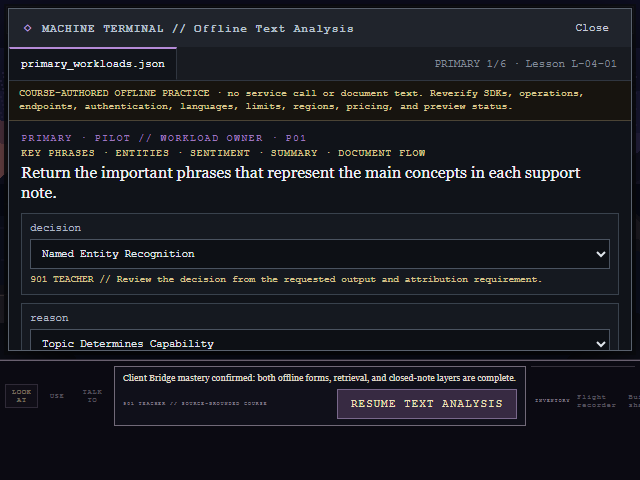
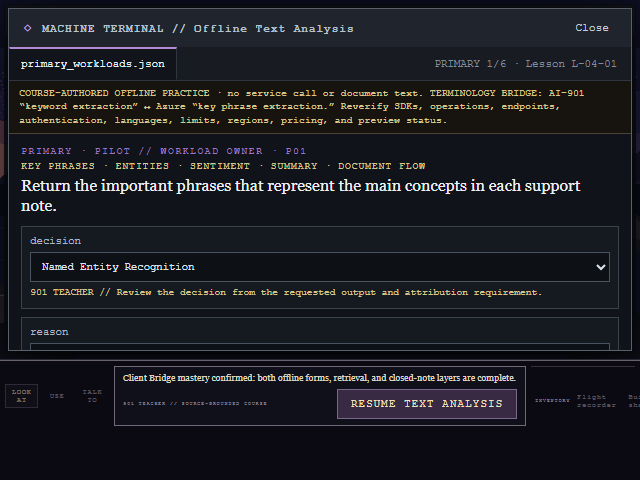
Round 13 step 5 Exercise Agent checkpoint

Changed region(s): [[0.0312, 0.1875, 0.9688, 0.75]]

diff --git a/horizon-archive-game/src/App.jsx b/horizon-archive-game/src/App.jsx
@@ -133,13 +133,14 @@ import {
 import {
   evaluateTextAnalysisExplanation,
   evaluateTextAnalysisScenario,
+  getTextAnalysisExplanationFeedback,
+  getTextAnalysisFeedback,
   getTextAnalysisOptions,
   sanitizeTextAnalysisEvidence,
   textAnalysisDimensions,
   textAnalysisExercise,
   textAnalysisExplanationDimensions,
   textAnalysisPrimaryScenarios,
-  textAnalysisRemediation,
   textAnalysisTransferScenarios,
   updateTextAnalysisEvidence,
 } from "./textAnalysisExercise.js";
@@ -375,6 +376,7 @@ export function App() {
   const focusContinueAfterStructuredRef = useRef(false);
   const focusContinueAfterControlRef = useRef(false);
   const focusContinueAfterClientRef = useRef(false);
+  const focusContinueAfterTextRef = useRef(false);
 
   function setDialogue(text, owner = "pilot") {
     setDialogueText(text);
@@ -456,6 +458,12 @@ export function App() {
     continueButtonRef.current?.focus({ preventScroll: true });
   }, [terminalOpen, pendingAdvance, clientBridgeEvidence?.masteryStatus]);
 
+  useLayoutEffect(() => {
+    if (!focusContinueAfterTextRef.current || terminalOpen || !pendingAdvance || textAnalysisEvidence?.masteryStatus !== "mastered") return;
+    focusContinueAfterTextRef.current = false;
+    continueButtonRef.current?.focus({ preventScroll: true });
+  }, [terminalOpen, pendingAdvance, textAnalysisEvidence?.masteryStatus]);
+
   function beginNewGame() {
     localStorage.removeItem(SAVE_KEY);
     setSceneIndex(0);
@@ -523,6 +531,7 @@ export function App() {
     if (saved.clientBridgeEvidence?.masteryStatus === "mastered") focusContinueAfterClientRef.current = true;
     setClientBridgeEvidence(saved.clientBridgeEvidence);
     setClientBridgeSession(null);
+    if (saved.textAnalysisEvidence?.masteryStatus === "mastered") focusContinueAfterTextRef.current = true;
     setTextAnalysisEvidence(saved.textAnalysisEvidence);
     setTextAnalysisSession(null);
     setResponsibleAIEvidence(saved.responsibleAIEvidence);
@@ -1169,7 +1178,7 @@ export function App() {
   function advanceTextAnalysis() { if (!textAnalysisSession.result?.passed) return; const scenarios = textAnalysisSession.form === "transfer" ? textAnalysisTransferScenarios : textAnalysisPrimaryScenarios; if (textAnalysisSession.index === scenarios.length - 1) { if (textAnalysisSession.form === "transfer") { setTextAnalysisEvidence((previous) => updateTextAnalysisEvidence(previous, { form: "explanation", masteryStatus: "transfer_complete", clearMisconceptionTags: true })); setTextAnalysisSession({ ...textAnalysisSession, form: "explanation", phase: "explanation", result: null, hintLevel: 0 }); } else setTextAnalysisSession({ ...textAnalysisSession, complete: true }); return; } setTextAnalysisSession({ ...textAnalysisSession, index: textAnalysisSession.index + 1, response: { decision: "", reason: "" }, result: null, hintLevel: 0 }); }
   function acknowledgeTextAnalysisPrimary() { if (!textAnalysisSession?.complete || !textAnalysisEvidence?.confidence) return; setTextAnalysisEvidence((previous) => updateTextAnalysisEvidence(previous, { form: "transfer", masteryStatus: "primary_complete", clearMisconceptionTags: true })); setTextAnalysisSession(null); setTerminalOpen(false); setRuinsTerminalKind(null); setDialogue("Text Analysis primary form complete at 12 of 12. Fresh transfer and closed-note workload choice remain.", "teacher"); }
   function checkTextAnalysisExplanation(event) { event.preventDefault(); const result = evaluateTextAnalysisExplanation(textAnalysisSession.explanationResponse); setTextAnalysisSession({ ...textAnalysisSession, explanationResult: result }); setTextAnalysisEvidence((previous) => updateTextAnalysisEvidence(previous, { form: "explanation", scenarioId: "explanation", correctness: result.correctness, incrementAttempt: true, masteryStatus: "transfer_complete" })); }
-  function acknowledgeTextAnalysisMastery() { if (!textAnalysisSession?.explanationResult?.passed || !textAnalysisSession.ownershipConfirmed || !textAnalysisEvidence?.confidence) return; focusContinueAfterClientRef.current = true; setTextAnalysisEvidence((previous) => updateTextAnalysisEvidence(previous, { form: "explanation", masteryStatus: "mastered", clearMisconceptionTags: true })); setTextAnalysisSession(null); setTerminalOpen(false); setRuinsTerminalKind(null); setDialogue("Text Analysis mastery confirmed: both 12-of-12 forms and closed-note workload explanation are complete.", "teacher"); }
+  function acknowledgeTextAnalysisMastery() { if (!textAnalysisSession?.explanationResult?.passed || !textAnalysisSession.ownershipConfirmed || !textAnalysisEvidence?.confidence) return; focusContinueAfterTextRef.current = true; setTextAnalysisEvidence((previous) => updateTextAnalysisEvidence(previous, { form: "explanation", masteryStatus: "mastered", clearMisconceptionTags: true })); setTextAnalysisSession(null); setTerminalOpen(false); setRuinsTerminalKind(null); setDialogue("Text Analysis mastery confirmed: both 12-of-12 forms and closed-note workload explanation are complete.", "teacher"); }
 
   function validateEvidenceOutput(event) {
     event.preventDefault();
@@ -2007,12 +2016,12 @@ export function App() {
         )}
         {terminalOpen && scene.id === "ruins" && ruinsTerminalKind === "text-analysis" && textAnalysisSession && (
           <TerminalShell exerciseId={textAnalysisExercise.exercise_id} title="Offline Text Analysis" filename={textAnalysisSession.phase === "explanation" ? "closed_note.md" : `${textAnalysisSession.form}_workloads.json`} lessonId={textAnalysisExercise.lesson_id} statusText={textAnalysisSession.phase === "explanation" ? "CLOSED-NOTE GATE" : `${textAnalysisSession.form.toUpperCase()} ${textAnalysisSession.index + 1}/6`} closeLabel="Exit Text Analysis" restoreFocusTo={terminalTriggerRef.current} onClose={exitTextAnalysis}>
-            <section className="model-choice-workspace text-analysis-workspace"><p className="model-choice-boundary">COURSE-AUTHORED OFFLINE PRACTICE · no service call or document text. Reverify SDKs, operations, endpoints, authentication, languages, limits, regions, pricing, and preview status.</p>
+            <section className="model-choice-workspace text-analysis-workspace"><p id="text-analysis-terminology-bridge" className="model-choice-boundary" role="note">COURSE-AUTHORED OFFLINE PRACTICE · no service call or document text. TERMINOLOGY BRIDGE: AI-901 “keyword extraction” ↔ Azure “key phrase extraction.” Reverify SDKs, operations, endpoints, authentication, languages, limits, regions, pricing, and preview status.</p>
               {textAnalysisSession.phase === "explanation" ? (
-                <form className="model-choice-form" onSubmit={checkTextAnalysisExplanation}><header><p className="pane-label">PILOT // CLOSED-NOTE WORKLOAD OWNER</p><h2>Explain key phrase extraction and safe result correlation</h2><p>Bridge AI-901 “keyword extraction” wording to the service capability, then preserve document IDs and mixed success/error handling. Your words remain session-only.</p></header><div className="model-choice-fields text-analysis-explanation">{textAnalysisExplanationDimensions.map((dimension) => { const fieldResult = textAnalysisSession.explanationResult?.correctness[dimension]; const id = `text-explanation-${dimension}-feedback`; return <label key={dimension}><span>{dimension.replaceAll("_", " ")}</span><input aria-label={`Closed-note text analysis ${dimension}`} aria-invalid={textAnalysisSession.explanationResult ? !fieldResult : undefined} aria-describedby={textAnalysisSession.explanationResult ? id : undefined} autoComplete="off" value={textAnalysisSession.explanationResponse[dimension]} onChange={(event) => setTextAnalysisSession({ ...textAnalysisSession, explanationResponse: { ...textAnalysisSession.explanationResponse, [dimension]: event.target.value }, explanationResult: null, ownershipConfirmed: false })} />{textAnalysisSession.explanationResult && <small id={id}>{fieldResult ? "SYSTEM // Dimension confirmed." : `901 TEACHER // Rebuild ${dimension.replaceAll("_", " ")} from the requested output and batch flow.`}</small>}</label>; })}</div><section className="terminal-console model-choice-output"><div className="console-heading-row"><strong>SYSTEM // CLOSED-NOTE VALIDATOR</strong><button className="run-action" type="submit" disabled={textAnalysisExplanationDimensions.some((key) => !textAnalysisSession.explanationResponse[key])}>Check workload explanation</button></div><div className={textAnalysisSession.explanationResult ? "console-feedback active" : "console-feedback"} role="status" aria-live="polite">{textAnalysisSession.explanationResult ? `${textAnalysisSession.explanationResult.score}/4 · ${textAnalysisSession.explanationResult.passed ? "Complete workload explanation confirmed." : "901 TEACHER // Name output, capability bridge, stable ID, and per-document error branch."}` : "No document text, service result, or answer choices are shown."}</div>{textAnalysisSession.explanationResult?.passed && <><label className="ownership-confirmation"><input type="checkbox" checked={textAnalysisSession.ownershipConfirmed} onChange={(event) => setTextAnalysisSession({ ...textAnalysisSession, ownershipConfirmed: event.target.checked })} />I produced this workload explanation myself without notes.</label><fieldset className="confidence-group"><legend>Confidence after both forms</legend>{["low", "medium", "high"].map((value) => <label key={value}><input type="radio" name="text-analysis-confidence" checked={textAnalysisEvidence?.confidence === value} onChange={() => setTextAnalysisEvidence((previous) => updateTextAnalysisEvidence(previous, { confidence: value }))} />{value}</label>)}</fieldset><button className="confirm-action" type="button" disabled={!textAnalysisSession.ownershipConfirmed || !textAnalysisEvidence?.confidence} onClick={acknowledgeTextAnalysisMastery}>Acknowledge strict mastery</button></>}</section></form>
+                <form className="model-choice-form" onSubmit={checkTextAnalysisExplanation}><header><p className="pane-label">PILOT // CLOSED-NOTE WORKLOAD OWNER</p><h2>Explain key phrase extraction and safe result correlation</h2><p>Bridge AI-901 “keyword extraction” wording to the service capability, then preserve document IDs and mixed success/error handling. Your words remain session-only.</p></header><div className="model-choice-fields text-analysis-explanation">{textAnalysisExplanationDimensions.map((dimension) => { const fieldResult = textAnalysisSession.explanationResult?.correctness[dimension]; const id = `text-explanation-${dimension}-feedback`; return <label key={dimension}><span>{dimension.replaceAll("_", " ")}</span><input aria-label={`Closed-note text analysis ${dimension}`} aria-invalid={textAnalysisSession.explanationResult ? !fieldResult : undefined} aria-describedby={textAnalysisSession.explanationResult ? id : undefined} autoComplete="off" value={textAnalysisSession.explanationResponse[dimension]} onChange={(event) => setTextAnalysisSession({ ...textAnalysisSession, explanationResponse: { ...textAnalysisSession.explanationResponse, [dimension]: event.target.value }, explanationResult: null, ownershipConfirmed: false })} />{textAnalysisSession.explanationResult && <small id={id}>{fieldResult ? "SYSTEM // Dimension confirmed." : `901 TEACHER // Rebuild ${dimension.replaceAll("_", " ")} from the requested output and batch flow.`}</small>}</label>; })}</div><section className="terminal-console model-choice-output"><div className="console-heading-row"><strong>SYSTEM // CLOSED-NOTE VALIDATOR</strong><button className="run-action" type="submit" disabled={textAnalysisExplanationDimensions.some((key) => !textAnalysisSession.explanationResponse[key])}>Check workload explanation</button></div><div className={textAnalysisSession.explanationResult ? "console-feedback active" : "console-feedback"} role="status" aria-live="polite">{getTextAnalysisExplanationFeedback(textAnalysisSession.explanationResult).systemScore}</div>{getTextAnalysisExplanationFeedback(textAnalysisSession.explanationResult).teacherRemediation && <p className="teacher-remediation"><strong>901 TEACHER // DOCUMENT-FLOW REMEDIATION</strong><span>{getTextAnalysisExplanationFeedback(textAnalysisSession.explanationResult).teacherRemediation}</span></p>}{textAnalysisSession.explanationResult?.passed && <><label className="ownership-confirmation"><input type="checkbox" checked={textAnalysisSession.ownershipConfirmed} onChange={(event) => setTextAnalysisSession({ ...textAnalysisSession, ownershipConfirmed: event.target.checked })} />I produced this workload explanation myself without notes.</label><fieldset className="confidence-group"><legend>Confidence after both forms</legend>{["low", "medium", "high"].map((value) => <label key={value}><input type="radio" name="text-analysis-confidence" checked={textAnalysisEvidence?.confidence === value} onChange={() => setTextAnalysisEvidence((previous) => updateTextAnalysisEvidence(previous, { confidence: value }))} />{value}</label>)}</fieldset><button className="confirm-action" type="button" disabled={!textAnalysisSession.ownershipConfirmed || !textAnalysisEvidence?.confidence} onClick={acknowledgeTextAnalysisMastery}>Acknowledge strict mastery</button></>}</section></form>
               ) : textAnalysisSession.complete ? (
                 <section className="workload-summary"><p className="pane-label">901 TEACHER // PRIMARY FORM COMPLETE</p><h2>12 / 12 dimensions</h2><p>Four capabilities and both document-correlation/error-flow items pass. Fresh transfer and closed-note explanation remain.</p><fieldset className="confidence-group"><legend>Confidence after primary form</legend>{["low", "medium", "high"].map((value) => <label key={value}><input type="radio" name="text-primary-confidence" checked={textAnalysisEvidence?.confidence === value} onChange={() => setTextAnalysisEvidence((previous) => updateTextAnalysisEvidence(previous, { confidence: value }))} />{value}</label>)}</fieldset><button className="confirm-action" type="button" disabled={!textAnalysisEvidence?.confidence} onClick={acknowledgeTextAnalysisPrimary}>Acknowledge primary form</button></section>
-              ) : (() => { const scenarios = textAnalysisSession.form === "transfer" ? textAnalysisTransferScenarios : textAnalysisPrimaryScenarios; const scenario = scenarios[textAnalysisSession.index]; const options = getTextAnalysisOptions(scenario.id, textAnalysisSession.form); return <form className="model-choice-form" onSubmit={checkTextAnalysis}><header><p className="pane-label">{textAnalysisSession.form === "transfer" ? "FRESH TRANSFER" : "PRIMARY"} · PILOT // WORKLOAD OWNER · {scenario.id}</p><p className="model-choice-layer-labels">KEY PHRASES · ENTITIES · SENTIMENT · SUMMARY · DOCUMENT FLOW</p><h2>{scenario.prompt}</h2></header><div className="model-choice-fields">{textAnalysisDimensions.map((dimension) => { const fieldResult = textAnalysisSession.result?.correctness[dimension]; const id = `text-analysis-${dimension}-feedback`; return <label key={dimension}><span>{dimension}</span><select aria-label={`Text analysis ${dimension}`} aria-invalid={textAnalysisSession.result ? !fieldResult : undefined} aria-describedby={textAnalysisSession.result ? id : undefined} value={textAnalysisSession.response[dimension]} onChange={(event) => setTextAnalysisSession({ ...textAnalysisSession, response: { ...textAnalysisSession.response, [dimension]: event.target.value }, result: null })}><option value="">Choose one</option>{options[dimension].map((value) => <option key={value} value={value}>{formatChoice(value)}</option>)}</select>{textAnalysisSession.result && <small id={id}>{fieldResult ? "SYSTEM // Correct." : `901 TEACHER // Review the ${dimension} from the requested output and attribution requirement.`}</small>}</label>; })}</div><section className="terminal-console model-choice-output"><div className="console-heading-row"><strong>SYSTEM // STRICT 12-DIMENSION VALIDATOR</strong><button className="run-action" type="submit" disabled={textAnalysisDimensions.some((key) => !textAnalysisSession.response[key])}>Check workload choice</button></div><div className={textAnalysisSession.result ? "console-feedback active" : "console-feedback"} role="status" aria-live="polite">{textAnalysisSession.result ? `${textAnalysisSession.result.score}/2 · ${textAnalysisSession.result.passed ? "Choice confirmed." : textAnalysisRemediation(scenario, textAnalysisSession.result, textAnalysisSession.hintLevel)}` : "Choose by requested output, then protect document attribution and mixed-result handling."}</div>{textAnalysisSession.result && !textAnalysisSession.result.passed && <button className="hint-action" type="button" disabled={textAnalysisSession.hintLevel >= 3} onClick={revealTextAnalysisHint}>Reveal next workload contrast</button>}{textAnalysisSession.result?.passed && <button className="confirm-action" type="button" onClick={advanceTextAnalysis}>{textAnalysisSession.index === 5 ? (textAnalysisSession.form === "transfer" ? "Begin closed-note explanation" : "View primary result") : "Next scenario"}</button>}</section></form>; })()}
+              ) : (() => { const scenarios = textAnalysisSession.form === "transfer" ? textAnalysisTransferScenarios : textAnalysisPrimaryScenarios; const scenario = scenarios[textAnalysisSession.index]; const options = getTextAnalysisOptions(scenario.id, textAnalysisSession.form); const feedback = getTextAnalysisFeedback(scenario, textAnalysisSession.result, textAnalysisSession.hintLevel); return <form className="model-choice-form" onSubmit={checkTextAnalysis}><header><p className="pane-label">{textAnalysisSession.form === "transfer" ? "FRESH TRANSFER" : "PRIMARY"} · PILOT // WORKLOAD OWNER · {scenario.id}</p><p className="model-choice-layer-labels">KEY PHRASES · ENTITIES · SENTIMENT · SUMMARY · DOCUMENT FLOW</p><h2>{scenario.prompt}</h2></header><div className="model-choice-fields">{textAnalysisDimensions.map((dimension) => { const fieldResult = textAnalysisSession.result?.correctness[dimension]; const id = `text-analysis-${dimension}-feedback`; return <label key={dimension}><span>{dimension}</span><select aria-label={`Text analysis ${dimension}`} aria-invalid={textAnalysisSession.result ? !fieldResult : undefined} aria-describedby={textAnalysisSession.result ? id : undefined} value={textAnalysisSession.response[dimension]} onChange={(event) => setTextAnalysisSession({ ...textAnalysisSession, response: { ...textAnalysisSession.response, [dimension]: event.target.value }, result: null })}><option value="">Choose one</option>{options[dimension].map((value) => <option key={value} value={value}>{formatChoice(value)}</option>)}</select>{textAnalysisSession.result && <small id={id}>{fieldResult ? "SYSTEM // Correct." : `901 TEACHER // Review the ${dimension} from the requested output and attribution requirement.`}</small>}</label>; })}</div><section className="terminal-console model-choice-output"><div className="console-heading-row"><strong>SYSTEM // STRICT 12-DIMENSION VALIDATOR</strong><button className="run-action" type="submit" disabled={textAnalysisDimensions.some((key) => !textAnalysisSession.response[key])}>Check workload choice</button></div><div className={textAnalysisSession.result ? "console-feedback active" : "console-feedback"} role="status" aria-live="polite">{feedback.systemScore}</div>{feedback.teacherRemediation && <p className="teacher-remediation"><strong>901 TEACHER // CAPABILITY AND CORRELATION REMEDIATION</strong><span>{feedback.teacherRemediation}</span></p>}{textAnalysisSession.result && !textAnalysisSession.result.passed && <button className="hint-action" type="button" disabled={textAnalysisSession.hintLevel >= 3} onClick={revealTextAnalysisHint}>Reveal next workload contrast</button>}{textAnalysisSession.result?.passed && <button className="confirm-action" type="button" onClick={advanceTextAnalysis}>{textAnalysisSession.index === 5 ? (textAnalysisSession.form === "transfer" ? "Begin closed-note explanation" : "View primary result") : "Next scenario"}</button>}</section></form>; })()}
             </section>
           </TerminalShell>
         )}

diff --git a/horizon-archive-game/src/textAnalysisExercise.js b/horizon-archive-game/src/textAnalysisExercise.js
@@ -18,6 +18,14 @@ export function evaluateTextAnalysisScenario(scenarioId, response, form = scenar
 function normalize(value) { return String(value ?? "").trim().toLowerCase().replace(/[^a-z0-9]+/g, "_").replace(/^_|_$/g, ""); }
 export function evaluateTextAnalysisExplanation(response) { const expected = { requested_output: "important_phrases_representing_main_concepts", capability: "key_phrase_extraction_keyword_extraction_bridge", document_id: "stable_id_correlates_each_input_result_or_error", mixed_result: "iterate_each_document_and_branch_success_or_error" }; const correctness = Object.fromEntries(textAnalysisExplanationDimensions.map((key) => [key, normalize(response[key]) === expected[key]])); return { correctness, score: Object.values(correctness).filter(Boolean).length, passed: Object.values(correctness).every(Boolean) }; }
 export function textAnalysisRemediation(scenario, result, level) { const missed = textAnalysisDimensions.filter((key) => !result.correctness[key]); if (level <= 1) return `Review ${missed.join(" and ")}: name the requested output, not the topic.`; if (level === 2) return `Contrast the nearest capability for this ${scenario.topic.replaceAll("_", " ")} item.`; return "Preserve the document ID and branch per document because one batch can mix results and errors."; }
+export function getTextAnalysisFeedback(scenario, result, level) {
+  if (!result) return { systemScore: "Awaiting both workload dimensions.", teacherRemediation: null };
+  return { systemScore: `${result.score}/2 · ${result.passed ? "CHOICE PASS · both dimensions confirmed." : "CHOICE NOT YET COMPLETE."}`, teacherRemediation: result.passed ? null : textAnalysisRemediation(scenario, result, level) };
+}
+export function getTextAnalysisExplanationFeedback(result) {
+  if (!result) return { systemScore: "Awaiting the learner's four-part explanation.", teacherRemediation: null };
+  return { systemScore: `${result.score}/4 · ${result.passed ? "EXPLANATION PASS · all four dimensions confirmed." : "EXPLANATION NOT YET COMPLETE."}`, teacherRemediation: result.passed ? null : "Name the requested output, terminology bridge, stable document ID, and per-document success/error branch." };
+}
 function formComplete(c, scenarios) { return scenarios.every((scenario) => textAnalysisDimensions.every((key) => c[scenario.id]?.[key] === true)); }
 export function sanitizeTextAnalysisEvidence(value) { if (!value || typeof value !== "object" || value.exerciseId !== exerciseAsset.exercise_id) return null; const dimensionCorrectness = {}; for (const scenario of [...all, { id: "explanation", dimensions: textAnalysisExplanationDimensions }]) { const keys = scenario.dimensions || textAnalysisDimensions; if (value.dimensionCorrectness?.[scenario.id]) dimensionCorrectness[scenario.id] = Object.fromEntries(keys.filter((key) => typeof value.dimensionCorrectness[scenario.id][key] === "boolean").map((key) => [key, value.dimensionCorrectness[scenario.id][key]])); } const strict = formComplete(dimensionCorrectness, textAnalysisPrimaryScenarios) && formComplete(dimensionCorrectness, textAnalysisTransferScenarios) && textAnalysisExplanationDimensions.every((key) => dimensionCorrectness.explanation?.[key] === true); let masteryStatus = ["in_progress", "remediation_required", "primary_complete", "transfer_complete", "mastered"].includes(value.masteryStatus) ? value.masteryStatus : "in_progress"; if (masteryStatus === "mastered" && !strict) masteryStatus = formComplete(dimensionCorrectness, textAnalysisTransferScenarios) ? "transfer_complete" : formComplete(dimensionCorrectness, textAnalysisPrimaryScenarios) ? "primary_complete" : "in_progress"; return { exerciseId: exerciseAsset.exercise_id, lessonId: exerciseAsset.lesson_id, activityId: exerciseAsset.activity_id, assessmentIds: [...exerciseAsset.assessment_ids], objectiveIds: [...exerciseAsset.objective_ids], skillIds: [...exerciseAsset.skill_ids], form: ["primary", "transfer", "explanation"].includes(value.form) ? value.form : "primary", dimensionCorrectness, attemptCount: Math.min(99, Math.max(0, Number.isInteger(value.attemptCount) ? value.attemptCount : 0)), hintLevel: Math.min(3, Math.max(0, Number.isInteger(value.hintLevel) ? value.hintLevel : 0)), confidence: ["low", "medium", "high"].includes(value.confidence) ? value.confidence : null, misconceptionTags: Array.isArray(value.misconceptionTags) ? [...new Set(value.misconceptionTags.filter((tag) => validTags.has(tag)))] : [], masteryStatus }; }
 export function updateTextAnalysisEvidence(previous, changes = {}) { const safe = sanitizeTextAnalysisEvidence(previous) || sanitizeTextAnalysisEvidence({ exerciseId: exerciseAsset.exercise_id }); const dimensionCorrectness = { ...safe.dimensionCorrectness }; if (changes.scenarioId && changes.correctness) dimensionCorrectness[changes.scenarioId] = changes.correctness; return sanitizeTextAnalysisEvidence({ ...safe, form: changes.form || safe.form, dimensionCorrectness, attemptCount: safe.attemptCount + (changes.incrementAttempt ? 1 : 0), hintLevel: Math.max(safe.hintLevel, changes.hintLevel || 0), confidence: changes.confidence || safe.confidence, misconceptionTags: changes.clearMisconceptionTags ? [] : [...safe.misconceptionTags, ...(changes.misconceptionTags || [])], masteryStatus: changes.masteryStatus || safe.masteryStatus }); }

diff --git a/horizon-archive-game/test/textAnalysisExercise.test.js b/horizon-archive-game/test/textAnalysisExercise.test.js
@@ -1,6 +1,8 @@
 import test from "node:test"; import assert from "node:assert/strict"; import primary from "../../curriculum/lessons/L-04-01/reference_primary_answers.json" with { type: "json" }; import transfer from "../../curriculum/lessons/L-04-01/reference_transfer_answers.json" with { type: "json" };
-import { evaluateTextAnalysisExplanation, evaluateTextAnalysisScenario, getTextAnalysisOptions, sanitizeTextAnalysisEvidence, textAnalysisPrimaryScenarios, textAnalysisTransferScenarios, updateTextAnalysisEvidence } from "../src/textAnalysisExercise.js";
+import { evaluateTextAnalysisExplanation, evaluateTextAnalysisScenario, getTextAnalysisExplanationFeedback, getTextAnalysisFeedback, getTextAnalysisOptions, sanitizeTextAnalysisEvidence, textAnalysisPrimaryScenarios, textAnalysisTransferScenarios, updateTextAnalysisEvidence } from "../src/textAnalysisExercise.js";
 test("both packaged forms pass strict 12 of 12 and cover four capabilities plus flow", () => { for (const [form, scenarios, answers] of [["primary", textAnalysisPrimaryScenarios, primary], ["transfer", textAnalysisTransferScenarios, transfer]]) { assert.equal(scenarios.length, 6); assert.equal(scenarios.filter((s) => s.topic === "client_flow").length, 2); for (const scenario of scenarios) { assert.equal(evaluateTextAnalysisScenario(scenario.id, answers[scenario.id], form).score, 2); assert.ok(getTextAnalysisOptions(scenario.id, form).decision.includes(answers[scenario.id].decision)); } } });
 test("decision and reason remediate independently", () => { assert.deepEqual(evaluateTextAnalysisScenario("P06", { decision: primary.P06.decision, reason: "assume_all_succeeded" }, "primary").correctness, { decision: true, reason: false }); });
+test("System result stays neutral while Teacher owns capability and correlation remediation", () => { const scenario = textAnalysisPrimaryScenarios.find((item) => item.id === "P06"); const feedback = getTextAnalysisFeedback(scenario, evaluateTextAnalysisScenario("P06", { decision: primary.P06.decision, reason: "assume_all_succeeded" }, "primary"), 3); assert.equal(feedback.systemScore, "1/2 · CHOICE NOT YET COMPLETE."); assert.doesNotMatch(feedback.systemScore, /document|error|teacher/i); assert.match(feedback.teacherRemediation, /document ID.*branch per document/i); });
 test("closed-note workload explanation requires all four boundaries", () => { assert.equal(evaluateTextAnalysisExplanation({ requested_output: "important phrases representing main concepts", capability: "key phrase extraction keyword extraction bridge", document_id: "stable id correlates each input result or error", mixed_result: "wrong" }).score, 3); });
+test("closed-note System score and Teacher document-flow guidance remain separate", () => { const feedback = getTextAnalysisExplanationFeedback(evaluateTextAnalysisExplanation({})); assert.equal(feedback.systemScore, "0/4 · EXPLANATION NOT YET COMPLETE."); assert.match(feedback.teacherRemediation, /terminology bridge.*document ID.*success\/error/i); });
 test("mastery evidence requires both forms and explanation and strips text", () => { let e = updateTextAnalysisEvidence(null, {}); for (const [form, scenarios, answers] of [["primary", textAnalysisPrimaryScenarios, primary], ["transfer", textAnalysisTransferScenarios, transfer]]) for (const scenario of scenarios) e = updateTextAnalysisEvidence(e, { form, scenarioId: scenario.id, correctness: evaluateTextAnalysisScenario(scenario.id, answers[scenario.id], form).correctness }); e = updateTextAnalysisEvidence(e, { form: "explanation", scenarioId: "explanation", correctness: { requested_output: true, capability: true, document_id: true, mixed_result: true }, masteryStatus: "mastered" }); assert.equal(e.masteryStatus, "mastered"); const safe = sanitizeTextAnalysisEvidence({ ...e, documentText: "private", freeFormReasoning: "private", serviceResultBody: "private" }); for (const key of ["documentText", "freeFormReasoning", "serviceResultBody"]) assert.equal(key in safe, false); });

diff --git a/Exercise Development/WORK_LOG.md b/Exercise Development/WORK_LOG.md
@@ -1,5 +1,18 @@
 # Exercise Agent Work Log
 
+## 2026-07-12 — EX-L0401 Text Analysis continuity closure
+
+- **Outcome:** Closed the Text Analysis ownership, terminology, and focus handoff without starting L-04-02 or L-04-03 gameplay. Primary, transfer, and closed-note `SYSTEM` result lines now contain only deterministic totals and pass/not-complete state; capability/correlation and document-flow coaching renders in separate explicitly labeled `901 TEACHER` remediation regions.
+- **Terminology/source bridge:** A semantic note outside the phase switch remains visible in every phase: course-authored offline practice, no service call or document text, and `AI-901 “keyword extraction” ↔ Azure “key phrase extraction.”` Existing volatile SDK/operation/endpoint/authentication/language/limit/region/pricing/preview warnings remain intact.
+- **Ownership:** Closed-note requested-output, capability, stable document-ID, and mixed result/error prose remains explicitly Pilot-owned and session-only. Per-field misses remain Teacher-owned, confirmations neutral System-owned, and primary/mastery completion messages explicitly Teacher-owned.
+- **Focus:** A dedicated Text Analysis focus flag moves focus to Continue after strict mastery acknowledgement and after sanitized mastered-save reload, replacing reliance on the earlier Client Bridge flag.
+- **Preserved contracts:** Primary 12/12, transfer 12/12, four-part closed-note mastery, no document text persistence/no service calls, evidence sanitization/privacy, close/reopen and reload behavior, canonical/narrow layout, and three pairwise-distinct captures remain intact.
+- **Files changed:** `horizon-archive-game/src/App.jsx`, `horizon-archive-game/src/textAnalysisExercise.js`, `horizon-archive-game/test/textAnalysisExercise.test.js`, `playtest/e2e-playthrough.mjs`, refreshed Text Analysis captures, and this log.
+- **Validation:** 71/71 unit tests pass; production build passes; L-04-01 self-test and both primary/transfer references pass 12/12; full title-to-credits E2E passes with zero runtime errors and verifies terminology visibility in every phase, ownership separation, field associations, direct/reload Continue focus, privacy, and distinct captures; `git diff --check` passes.
+- **Manifest/E2E register:** Existing `HA-AI901-TEXT-ANALYSIS` contract remains correct; the E2E register now includes it plus terminology, ownership, and focus flags.
+- **Next action:** Player Agent should independently test terminology-note announcement, document-ID/error-flow remediation ordering, no-text persistence, and Continue focus after direct/restored mastery. Do not enter L-04-02/L-04-03 before that audit.
+- **Risks:** The longer terminology note and remediation add vertical content to the canonical/narrow Terminal and require an independent narrow-screen reading-order review.
+
 ## 2026-07-12 — L-04-01 Offline Text Analysis complete Terminal gate
 
 - **Outcome:** Added `EX-L0401-TEXT-ANALYSIS` as the mandatory offline Terminal after Client Bridge. Mastery requires packaged primary 12/12, fresh transfer 12/12, and a four-part closed-note workload-choice/correlation explanation. Progression remains blocked until completion; no L-04-02 gameplay was implemented.
